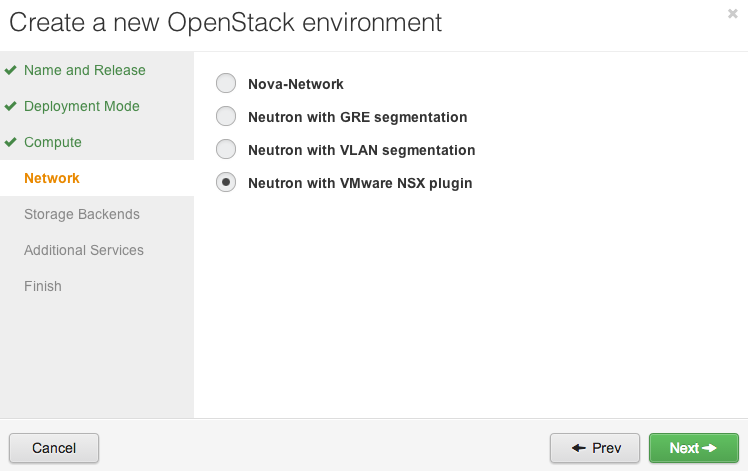
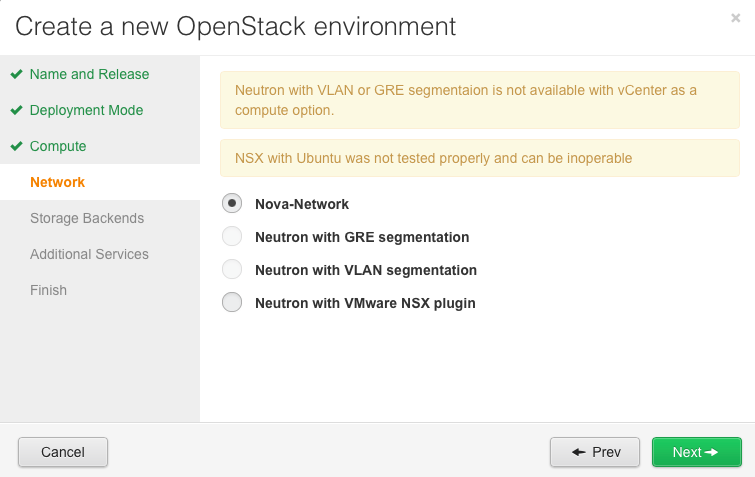
Describes NSX+vCenter support
* Add changes into Planning Guide
* Add changes into User Guide (Fuel)
* Add changes into Reference Architecture (Neutron+NSX)

Implements: blueprint vcenter-nsx-support

diff --git a/pages/planning-guide/7000-nsx-plan.rst b/pages/planning-guide/7000-nsx-plan.rst
@@ -10,6 +10,9 @@ VMware provides an NSX plug-in for OpenStack that enables the Neutron
 service to communicate and provision virtual networks in NSX that can
 manage Open vSwitches on controller and compute nodes.
 
+.. note: Fuel 6.0 supports NSX as an Experimental Feature.
+         See :ref:`experimental-features-op` for more information.
+
 This section summarizes the planning you should do
 and other steps that are required
 before you attempt to deploy Mirantis OpenStack
@@ -123,11 +126,237 @@ VMware NSX cluster configuration
    `NSX appliances installation  <https://www.edge-cloud.net/2013/12/openstack-with-vsphere-and-nsx-part1>`_ and `NSX cluster configuration <https://www.edge-cloud.net/2013/12/openstack-with-vsphere-and-nsx-part2>`_
    for details about the NSX cluster deployment process.
 
+Preparing for Neutron with VMware NSX plugin installation
+---------------------------------------------------------
+
+To enable Neutron with VMware NSX plugin, you should have
+the NSX cluster configured.
+Once it is enabled, an NSX vSwitch should be
+configured inside the ESXi hosts.
+
+Installing NSX vSwitch
+~~~~~~~~~~~~~~~~~~~~~~
+
+The NSX vSwitch is a part of an SDN solution
+for the VMware vSphere platform,
+similar to the Standard
+vSwitch and the Virtual Distributed Switch.
+The NSX vSwitch needs a dedicated
+physical uplink (vmnic) to connect to the upstream network.
+Before proceeding to the actual installation,
+ensure that you have a vmnic interface available on all your ESXi hosts
+The NSX vSwitch is provided as
+a vSphere Installation Bundle (VIB)
+that needs to be installed on each ESXi
+host that you plan on using.
+
+To install NSX vSwitch, follow these steps:
+
+1. Make sure VIB file is available to the ESXi hosts via e.g. a shared storage.
+
+.. image:: /_images/nsx-vswitch1.png
+  :width: 50%
+
+
+2. Temporarily enable SSH access to the ESXi hosts.
+
+.. image:: /_images/nsx-vswitch2.png
+  :width: 50%
+
+3. After you have enabled SSH access to the ESXi hosts, connect to your first ESXi host via SSH.
+   Start the installation of the NSX vSwitch VIB file via
+   the *esxcli software vib install --no-sig-check -v <path and filename>* command.
+
+::
+
+
+    ~ # esxcli software vib install --no-sig-check -v /vmfs/volumes/SiteA-IPv6-NFS/vmware-nsxvswitch-2.0.1-30494-release.vib
+   Installation Result
+   Message: Operation finished successfully.
+   Reboot Required: false
+   VIBs Installed: VMware_bootbank_vmware-nsxvswitch_2.0.1-30494
+   VIBs Removed:
+   VIBs Skipped:
+   ~ #
+
+4. The installation of VIB file is over; you can turn off the SSH daemon.
+
+Configuring the NSX vSwitch
+~~~~~~~~~~~~~~~~~~~~~~~~~~~
+
+Note that in comparison to the Standard vSwitch and the virtual Distributed Switch installation,
+that is done via vCenter, the NSX vSwitch is configured via the CLI.
+
+1. To configure the NSX vSwitch, connect an uplink to the switch;
+   this will create an NVS bridge.
+
+::
+
+    ~ # nsxcli uplink/connect vmnic<number>
+
+2. Configure the IP address for the transport endpoint. This transport
+   endpoint creates overlay tunnels with other transport endpoints,
+   such as Hypervisors, Gateway nodes and Service Nodes. The NSX
+   vSwitch uses a separate IP stack for this, which means that
+   the VMWare NSX transport endpoint has its own default gateway.
+   Set the IP address of the transport endpoint with the *nsxcli uplink/set-ip <interface> <ip address> <netmask>*
+   command.
+   VLAN tag can also be set by putting **<vlan_id>** as an additional parameter to the command (for example, **100**).
+
+::
+
+
+     ~ # nsxcli uplink/set-ip vmnic4 192.168.110.123 255.255.255.0
+
+
+Note that if the physical switchport
+that this vmnic connects to is not configured as
+an access port but as a trunk,
+you will need to also specify the correct VLAN to
+be used with the following command:
+**nsxcli uplink/set-ip <interface> <ip-address> <netmask> <vlan_id>**.
+
+
+3. Set the default gateway with the *nsxcli gw/set tunneling <ip address of default gateway>* command.
+
+::
+
+
+    ~ # nsxcli gw/set tunneling 192.168.110.121
+    ~ #
+
+4. Create a Transport-Net Bridge to which Virtual Machines will later
+   connect to. The name of this brigde must be NSX-Bridge.
+   Create the NSX bridge with the following command:
+
+::
+
+
+    ~ # nsxcli network/add br-int br-int nsx.network manual
+    success
+    ~ #
+
+5. Register the NSX vSwitch with the NSX controller.
+   First, use the *nsxcli manager/set ssl:<IP address of a NSX controller node>* command
+   to point the NSX vSwitch to the NSX controller. In
+   the case of an NSX controller cluster, you can specify any IP address of a cluster member.
+
+::
+
+
+    ~ # nsxcli manager/set ssl:192.168.110.101
+    ~ #
+
+
+5. Extract the SSL certificate from the NSX vSwitch via the *cat /etc/nsxvswitch/nsxvswitch-cert.pem.* command.
+   Copy the text including the * —–BEGIN CERTIFICATE—– and —–END CERTIFICATE—–* line.
+   You will need this text in the next step.
+
+.. image:: /_images/nsx-vswitch3.png
+  :width: 50%
+
+6. Do not close the SSH session yet.
+   Return to the NSX Manager Dashboard.
+   Within the Summary of Transport Components section, click on
+   *Add within the Hypervisor* row.
+
+.. image:: /_images/nsx-vswitch4.png
+  :width: 50%
+
+7. Confirm that the pre-selected transport type is Hypervisor.
+
+.. image:: /_images/nsx-vswitch5.png
+  :width: 50%
+
+
+7. Give the hypervisor node a name; the hostname can be used here.
+
+.. image:: /_images/nsx-vswitch6.png
+  :width: 50%
+
+8. As the *Integration Bridge Id*, specify *br-int*.
+   Leave the other values default.
+   The *Tunnel Keep-alive Spray* would randomize TCP source ports for STT tunnel keep-alives
+   for packet spray across active network path.
+
+.. image:: /_images/nsx-vswitch7.png
+  :width: 50%
+
+9. Select the Credential Type of Security Certificate and paste the previously copied certificate
+   into the Security Certificate field.
+
+.. image:: /_images/nsx-vswitch8.png
+  :width: 50%
+
+10. Create a transport connector for
+    the NSX vSwitch using STT as the transport type and the IP address that you configured a few steps earlier.
+
+.. image:: /_images/nsx-vswitch9.png
+  :width: 50%
+
+11. Return to the NSX Manager Dashboard, where you will see the new Hypervisor within
+    the Summary of Transport Components section, within the Hypervisors row.
+    Click on the number for active hypervisors to see more details.
+
+.. image:: /_images/nsx-vswitch10.png
+  :width: 50%
+
+You should see the ESXi host with the NSX vSwitch successfully added as a hypervisor with the Connection status as Up.
+
+.. image:: /_images/nsx-vswitch11.png
+  :width: 50%
+
+12. Instruct VMware NSX to export the OpenStack virtual machine virtual interface
+    (vif) UUID as extra information besides the VMware vSphere one.
+    This is necessary as OpenStack uses a different UUID than VMware vSphere does.
+    Without this setting OpenStack will not recognize a VM that it created for further operations via the Neutron API.
+    Instruct NSX to allow custom vifs with the *nsxd --allow-custom-vifs* command.
+    When asked for a username and password, enter the username and password for the ESXi host.
+
+::
+
+
+    ~ # nsxd --allow-custom-vifs
+    2013-12-18T19:50:15Z|00001|ovs_esxd|INFO|Normal operation
+    username : root
+    Password:
+    WARNING: can't open config file: /etc/pki/tls/openssl.cnf
+    nsxd: NSXD will be restarted now.
+    Killing nsxd (227588).
+    2013-12-18T19:50:21Z|00001|ovs_esxd|INFO|Normal operation
+    WARNING: can't open config file: /etc/pki/tls/openssl.cnf
+    Starting nsxd.
+    ~ #
+
+13. You can safely ignore the warning message about the */etc/pki/tls/openssl.cnf* configuration file.
+    Verify that the configuration change has been applied with the *nsxcli custom-vifs/show* command.
+    Repeat the above steps for any additional ESX host that you want to use with this setup.
+
+::
+
+
+   ~ # nsxcli custom-vifs/show
+   Custom-VIFs: Enabled
+   ~ #
+
+
+14. Return to the vSphere Web Client where you can see vmnic1 connected to the NSX vSwitch.
+
+.. image:: /_images/nsx-vswitch12.png
+  :width: 50%
+
+15. After you have installed and configured the NSX vSwitch on all Hypervisors,
+    you can see the results in the NSX Manager Dashboard.
+
+.. image:: /_images/nsx-vswitch13.png
+  :width: 50%
+
+For further instructions on configuring Neutron with VMware NSX plugin in Fuel Web UI, see :ref:`vcenter-deploy`.
+
 
 Limitations
-------------------------------
-- Only KVM or QEMU are supported as hypervisor options
-  when using VMware NSX.
+-----------
+
 - Only VMware NSX 4.0 is supported
 - Resetting or deleting the environment via "Reset" and "Delete" buttons
   on the Actions tab does not flush the entities (logical switches, routers,

diff --git a/pages/user-guide/7310-nsx.rst b/pages/user-guide/7310-nsx.rst
@@ -45,7 +45,7 @@ You can deploy Mirantis OpenStack with or without :ref:`ha-term`.
 Select Hypervisor for NSX
 +++++++++++++++++++++++++
 
-Select either the KVM or QEMU :ref:`hypervisor<hypervisor-ug>`
+Select either the KVM, QEMU or vCenter :ref:`hypervisor<hypervisor-ug>`
 when you create your OpenStack Environment.
 After that, you need to fill in the corresponding fields.
 You can modify the NSX specific values on the Settings tab
@@ -108,17 +108,22 @@ integrated with NSX.
 Network settings
 ++++++++++++++++
 
-This example screenshot illustrate the completed Network Settings page
-when using the Neutron VMware NSX plugin.
+In Network Settings tab,
+specify the NSX and check vCenter
+credentials that you specified when performed
+steps described in :ref:`nsx-plan`
 
-.. image:: /_images/nsx-settings.png
-   :width: 80%
+.. image:: /_images/vcenter-nsx-settings.png
+   :width: 50%
 
-Input the values you specified when did :ref:`nsx-plan`.
-Here is an example how filled NSX settings block might look:
+Note that when you have deployed your Neutron with NSX plugin
+environment and logged into the Horizon dashboard,
+external and internal networks are created with
+*net04_ext* and *net_04* names accordingly.
 
-.. image:: /_images/nsx-settings-filled.png
-   :width: 80%
+For more information on configuring networks,
+see the blog post
+`Create virtual networks and launch a VM instance in OpenStack <https://www.edge-cloud.net/2014/01/openstack-vsphere-nsx-part5/>`_.
 
 For more information about how NSX support is implemented,
 see :ref:`neutron-nsx-arch`.

diff --git a/pages/reference-architecture/neutron-intro/0270-nsx.rst b/pages/reference-architecture/neutron-intro/0270-nsx.rst
@@ -9,7 +9,7 @@ might look like this, it is assumed that the NSX nodes have L2 connectivity
 with OpenStack nodes:
 
 .. image:: /_images/Neutron_nsx_l2.png
-  :width: 80%
+  :width: 50%
 
 If your NSX cluster resides in its own network and you do not want to relocate
 you NSX nodes, it is possible to use L3 connectivity between the NSX network
@@ -26,4 +26,15 @@ Here is an example of how it will look:
 
 .. note:: You do not need a physically separate Private network for this
           setup.
+
+Neutron with VMware NSX and vCenter
+-----------------------------------
+
+In Mirantis OpenStack 6.0, Neutron with VMware NSX can be enabled
+with vCenter as a hypervisor.
+In this case, the following topology
+will be implemented:
+
+.. image:: /_images/nsx-vcenter-arch.png
+  :width: 50%
 
